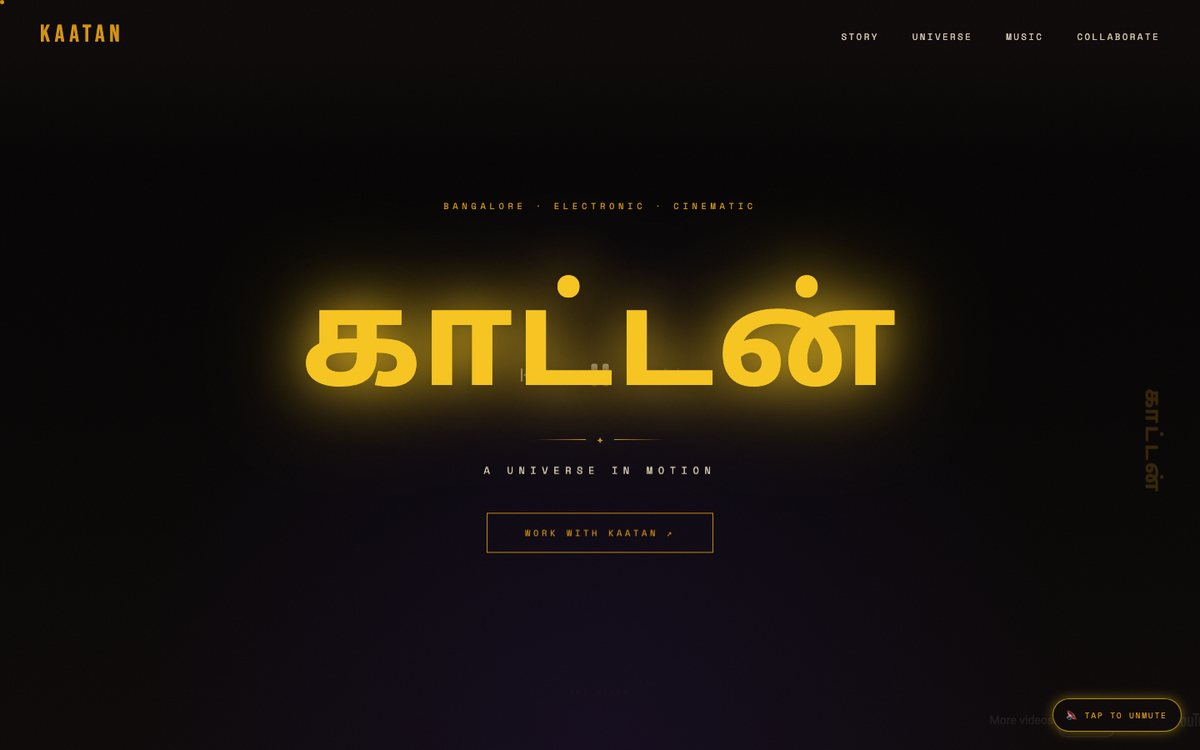
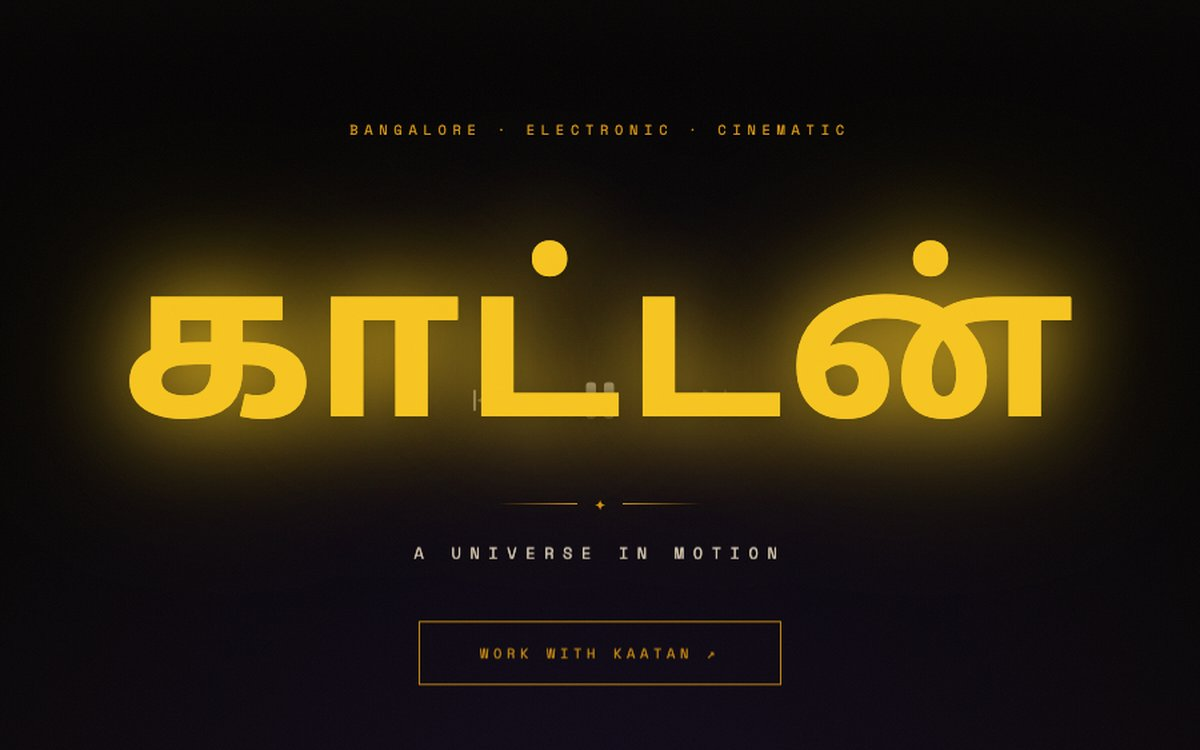
Fix /work/ Kaatan card: image was black void on mobile
Two bugs: the img sat inside an <a> so the .proj>img rules never applied, and the
height='750' attribute overrode aspect-ratio (fixed 750px-tall image). Fixed the
selector (.proj img + display:block anchor) and added height:auto so aspect-ratio
16/10 drives it. Re-cropped the screenshot to the gold काட்டन् composition instead
of the black void.

diff --git a/work/index.html b/work/index.html
@@ -31,7 +31,8 @@
     .projects{display:grid;grid-template-columns:1fr 1fr;gap:22px;margin-top:40px}
     @media(max-width:760px){.projects{grid-template-columns:1fr}}
     .proj{border:2px solid var(--ink,#241B2E);border-radius:18px;overflow:hidden;box-shadow:6px 6px 0 var(--ink,#241B2E);background:var(--surface);display:flex;flex-direction:column}
-    .proj>img{width:100%;aspect-ratio:16/10;object-fit:cover;display:block;border-bottom:2px solid var(--ink,#241B2E);background:#0C0808}
+    .proj a{display:block;line-height:0}
+    .proj img{width:100%;height:auto;aspect-ratio:16/10;object-fit:cover;display:block;border-bottom:2px solid var(--ink,#241B2E);background:#0C0808}
     .proj .pbody{padding:20px 22px 24px}
     .proj .nm{font-family:var(--font-d,'Bricolage Grotesque',sans-serif);font-weight:800;font-size:24px;letter-spacing:-.5px;color:var(--ink,#241B2E)}
     .proj .tagline{color:var(--muted);font-size:14.5px;margin:8px 0 14px;line-height:1.55}
